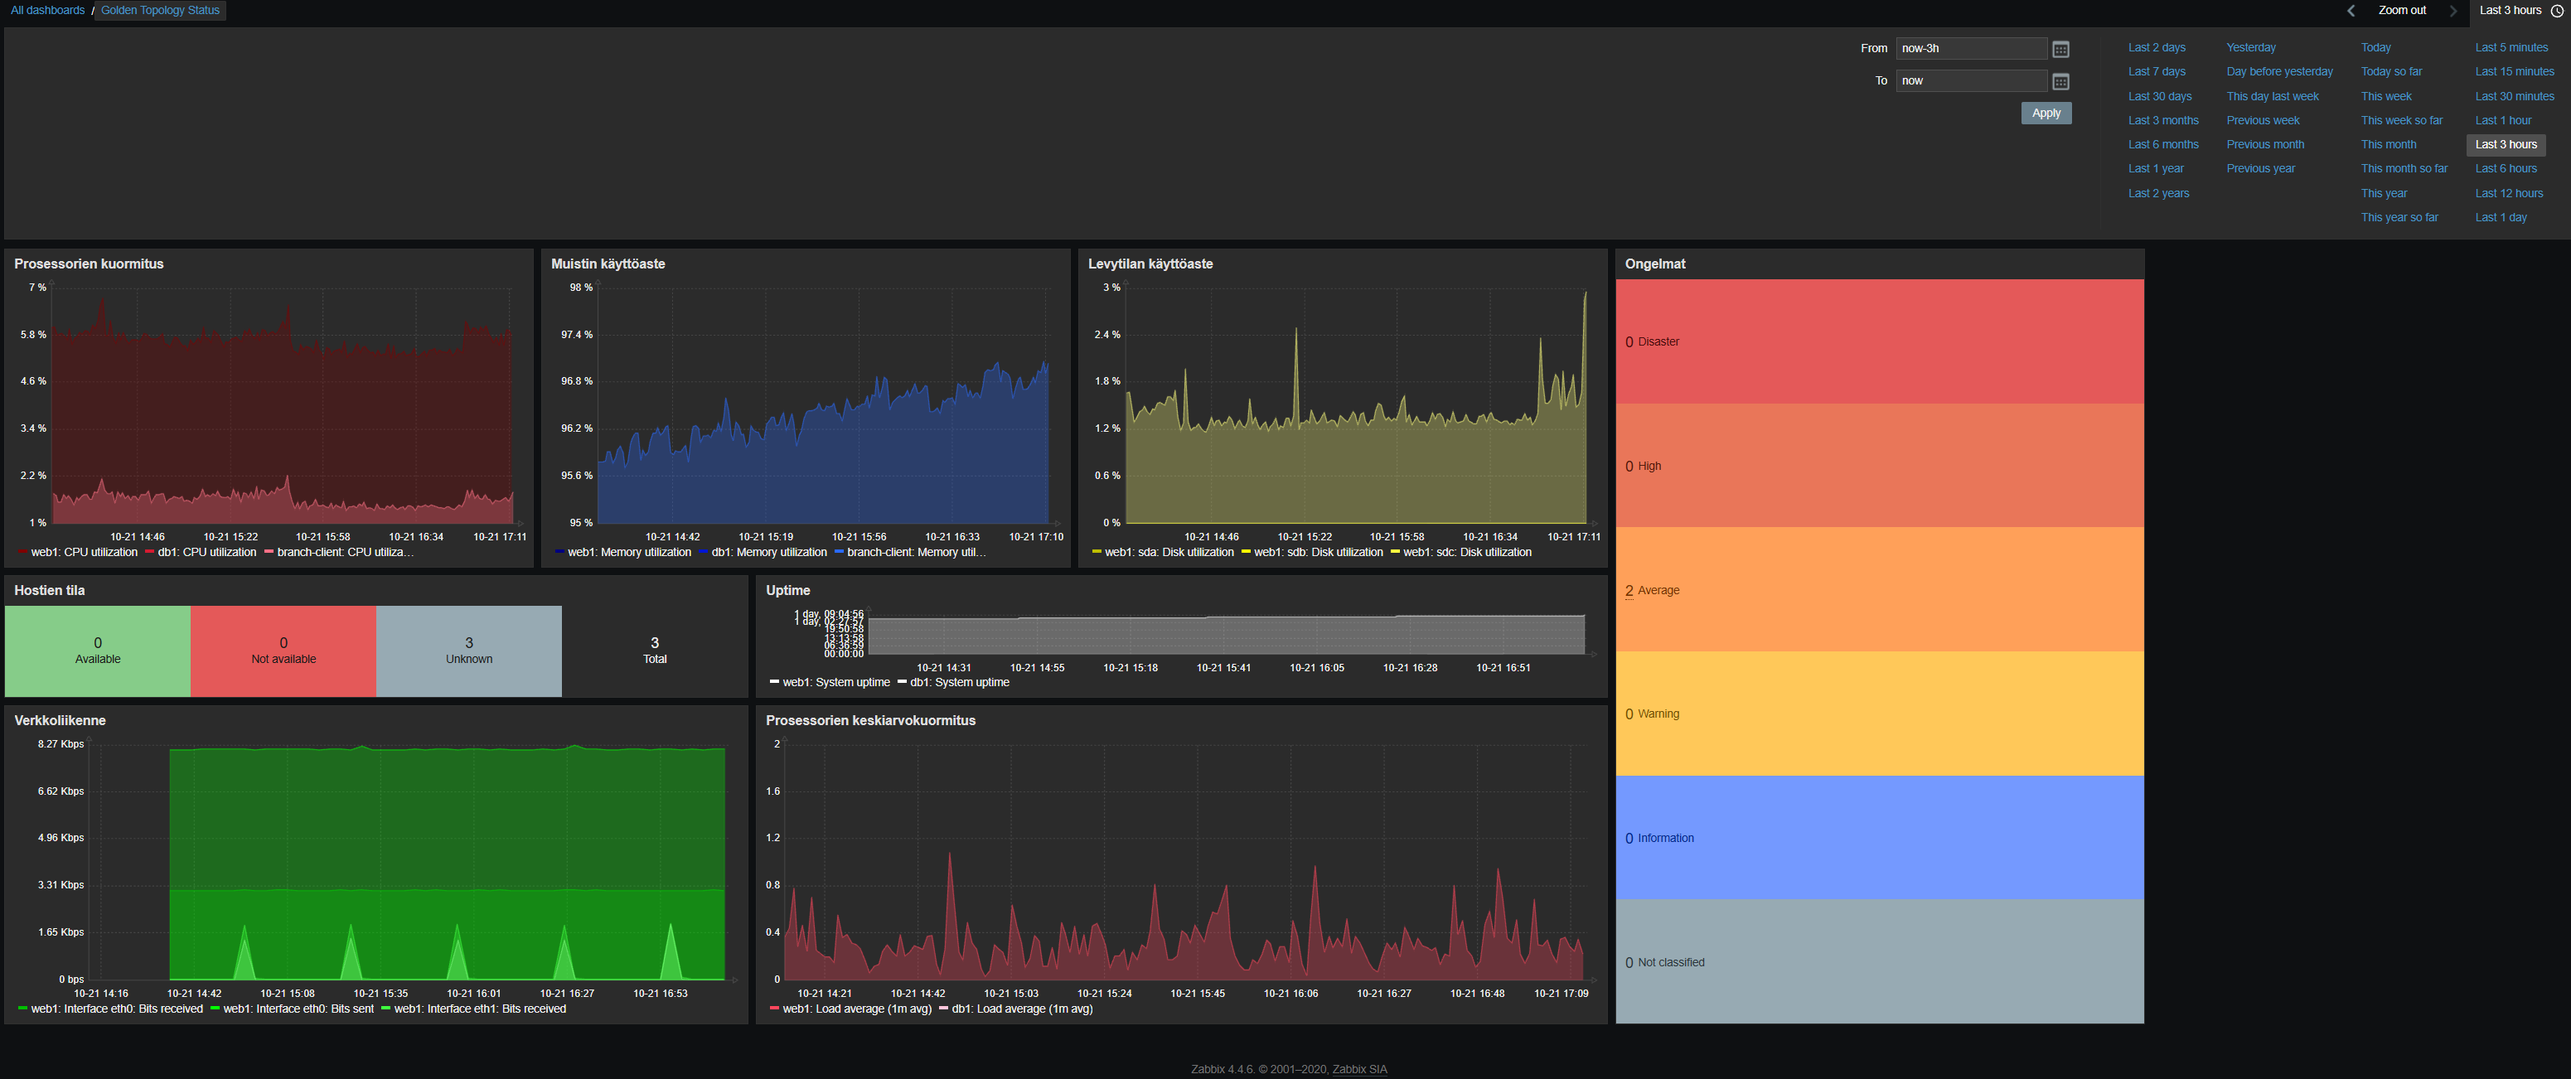
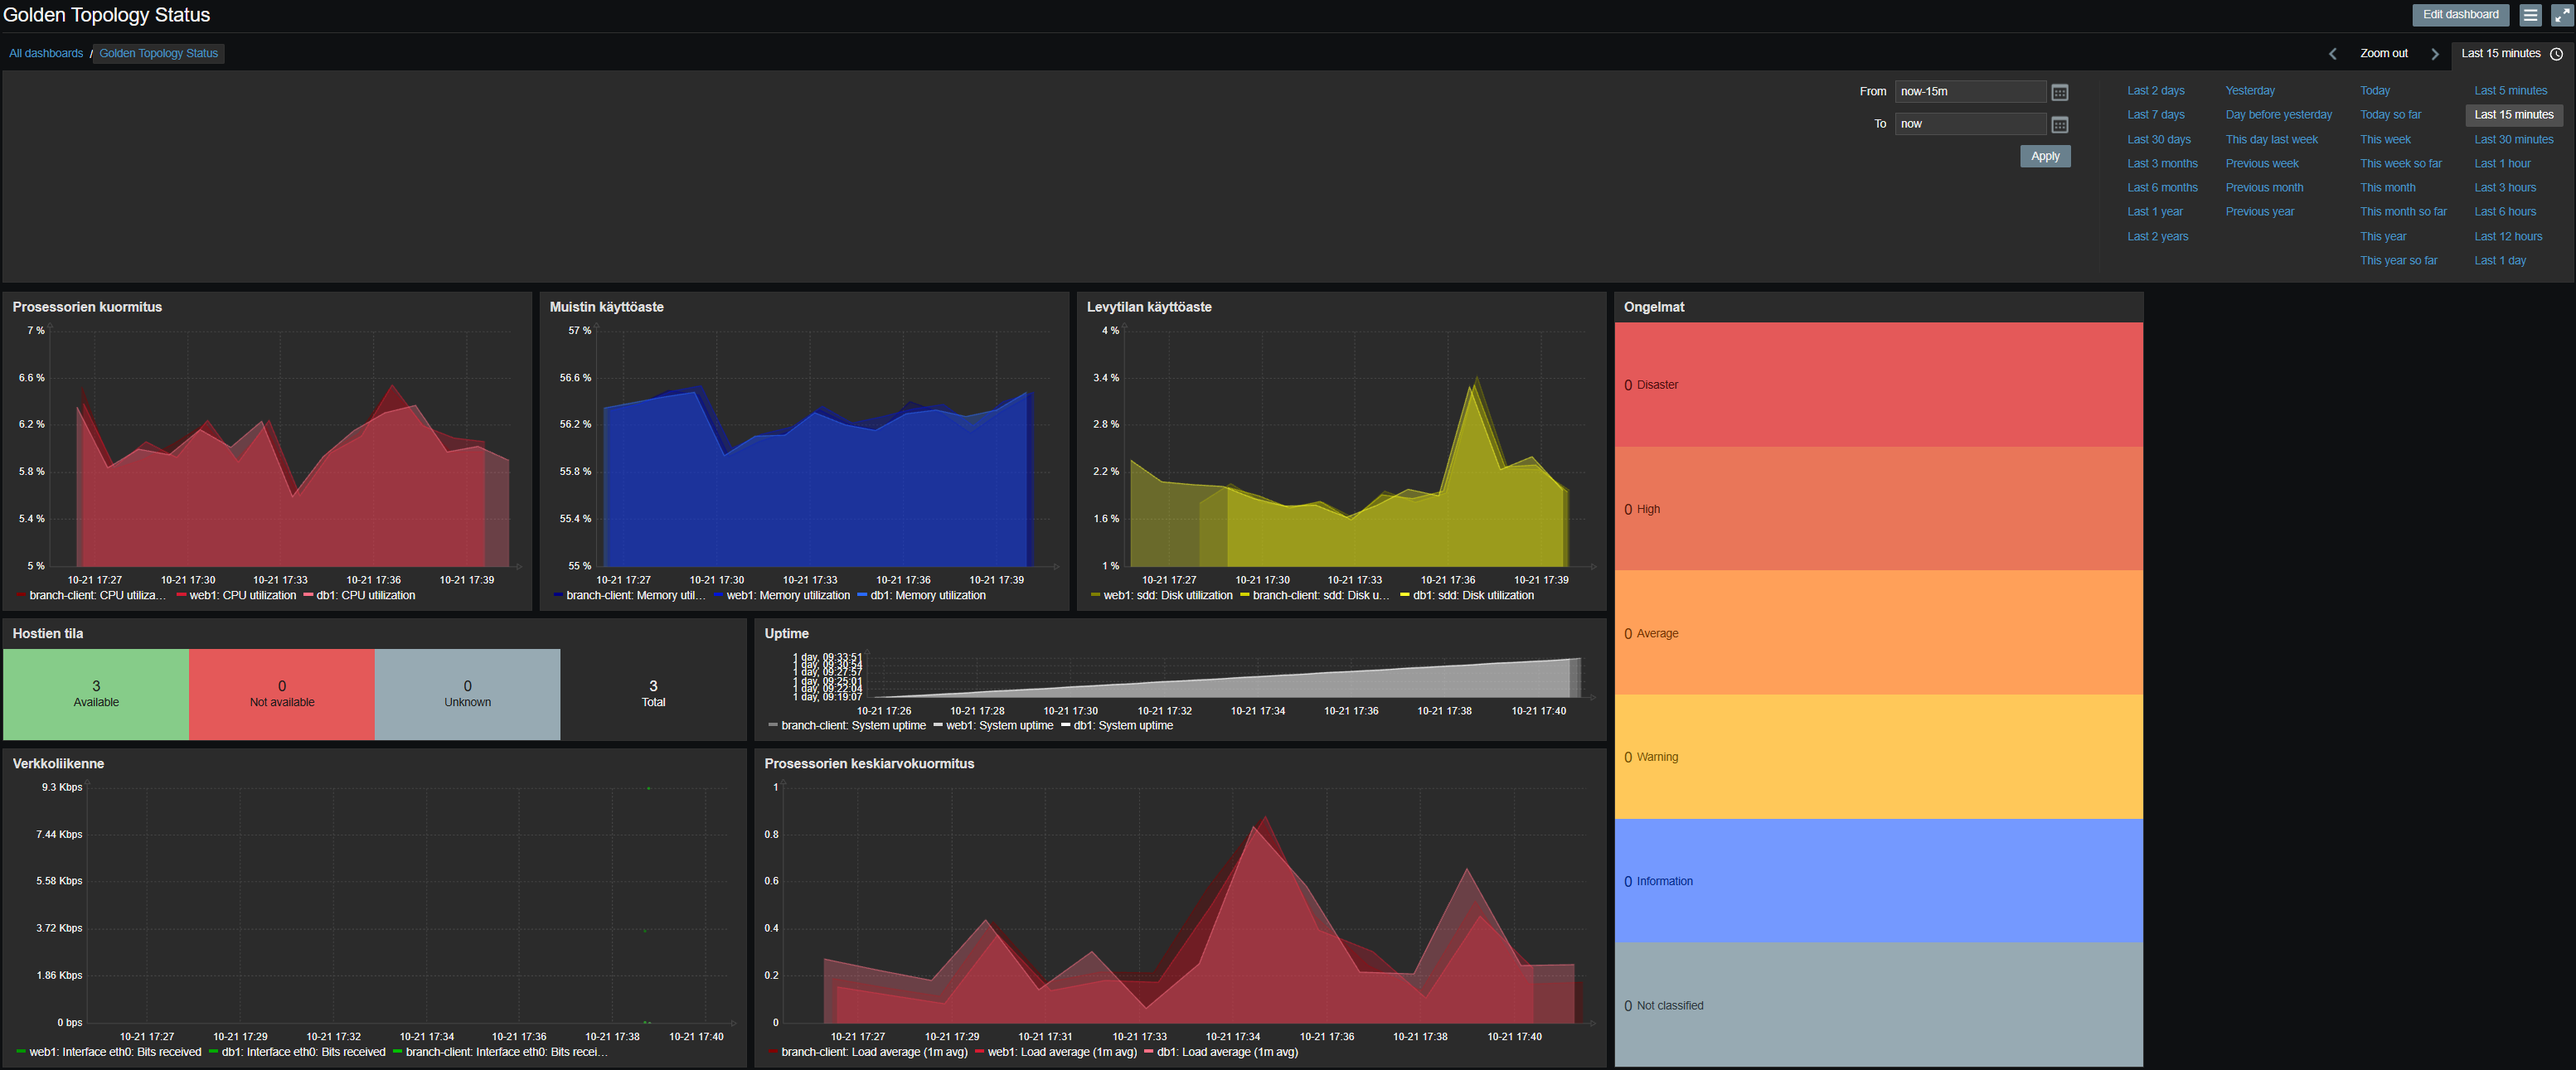
Viikon 6 raportti valmis

diff --git a/reports/week06.md b/reports/week06.md
@@ -1,6 +1,6 @@
 # 1. Johdanto
 
-Zabbix on avoimen lähdekoodin valvontajärjestelmä, jolla seurataan palvelimien, verkkolaitteiden ja sovellusten toimintaa.
+Zabbix on avoimen lähdekoodin valvontajärjestelmä, jolla seurataan palvelinten, verkkolaitteiden ja sovellusten toimintaa.
 
 Sitä voidaan käyttää esim.:
 - Suorituskyvyn seurantaan: CPU, muisti, levytila ja verkkoliikenne.
@@ -8,7 +8,7 @@ Sitä voidaan käyttää esim.:
 - Hälytyksiin: ilmoittaa, jos järjestelmässä havaitaan ongelmia tai raja-arvot ylittyvät.
 - Ongelmien ennaltaehkäisyyn: auttaa havaitsemaan poikkeamat ennen kuin ne aiheuttavat suurempia häiriöitä.
 
-Zabbix muistuttaa kolmannella viikolla opeteltua Prometheusta, sillä molempia käytetään infrastruktuurin valvontaan ja ongelmien havaitsemiseen.
+Zabbix muistuttaa kolmannella viikolla opeteltua Prometheusta, koska molempia käytetään infrastruktuurin valvontaan ja ongelmien havaitsemiseen.
 
 - Hosts: Hallitaan valvottavia laitteita ja palvelimia, esim. web1- ja db1-palvelimia. Hostien asetuksissa määritellään mm. IP-osoitteet ja valvontaan liittyvät tiedot.
 - Templates: Valmiita määrityspohjia, jotka sisältävät mittareita, valvontasääntöjä ja hälytyksiä. Niiden avulla samat valvonta-asetukset voidaan ottaa helposti käyttöön useilla hosteilla.
@@ -24,35 +24,58 @@ Zabbix muistuttaa kolmannella viikolla opeteltua Prometheusta, sillä molempia k
 Kirjauduin ensin web1-palvelimelle ja asensin Zabbix-agent2 -ohjelmiston. Versiona toimi *zabbix-release_latest_7.4+ubuntu24.04_all*. Tämän jälkeen muokkasin agentin configuraatiotiedostoon oikeat IP-osoitteet.
 Seuraavaksi toistin prosessin myös db1-palvelimelle sekä branch-clientille.
 
-Tein Zabbixiin Host Groupin nimeltä Containerlab hostit ja lisäsin sinne web1- ja db1-palvelimet sekä branch-clientin.
+Tein Zabbixiin Host Groupin nimeltä Containerlab hostit ja lisäsin sinne web1- ja db1-palvelimet sekä branch-clientin. Yritin ensin käyttää templatena "Template OS Windows by Zabbix agent active" -vaihtoehtoa. Tällä templatella sain dataa näkyviin, mutta vain osittain. Lisäksi hostien tilaksi jäi "unknown". Kun vaihdoin templateksi "Template OS Windows by Zabbix agent" -vaihtoehdon, alkoi data näkymään oikein ja hostit näkyivät pian available-tilassa.
 
-![Kuvakaappaus](https://github.com/VSelkala/verkonhallinta/blob/main/reports/images/wireshark_1.png)
+![Kuvakaappaus](https://github.com/VSelkala/verkonhallinta/blob/main/reports/images/zabbix_hostgroup.png)
 
 ---
 
 # 3. Dashboard
 
-Kuvakaappaus dashboardista.
+Kuvakaappaus rakentamastani dashboardista.
 
-![Kuvakaappaus](https://github.com/VSelkala/verkonhallinta/blob/main/reports/images/wireshark_1.png)
+![Kuvakaappaus](https://github.com/VSelkala/verkonhallinta/blob/main/reports/images/zabbix_dashboard.png)
+
+Mielestäni tästä dashboardista seurattavien kohteiden tila avautuu hyvin yhdellä näkymällä ilman, että tietoa tulee liikaa.
 
 ---
 
 # 4. Mittarit
 
-Valitut mittarit ja niiden merkitys.
+Valitsin mittareiksi Prosessorien kuormitus, Muistin käyttöaste, Levytilan käyttöaste, Hostien tila, Uptime, Verkkoliikenne, Prosessorien keskiarvokuormitus sekä Ongelmat.
+
+| **Mittari** | **Arvo** | **Merkitys** |
+|---|---|---|
+| Prosessorien kuormitus | 0-100 % | Nähdään laitteen prosessorien kuormitustilanne ja mahdolliset pullonkaulat |
+| Muistin käyttöaste | 0-100 % | Nähdään laitteen muistin kuormitustilanne ja mahdolliset pullonkaulat |
+| Levytilan käyttöaste | 0-100 % | Tiedetään milloin levytilaa tarvitsee lisätä tai vapauttaa |
+| Hostien tila | Available / Not available / Unknown | Nopea näkymä siihen, onko valvottavat hostit toiminnassa |
+| Uptime | DD:HH:mm:ss | Nähdään kauanko palvelu on ollut yhtäjaksoisesti toiminnassa |
+| Verkkoliikenne | Kbps | Nähdään paljonko dataa kyseinen laite siirtää verkossa |
+| Prosessorien keskiarvokuormitus (1 min) | 0-X (X = prosessorien lukumäärä) | Nähdään montako prosessia on ollut käynnissä tai odottamassa prosessoria viimeisen minuutin aikana |
+| Ongelmat | Disaster / High / Average / Warning / Information / Not classified | Näyttää ympäristössä oleva ongelmat prioriteetin mukaan |
 
 ---
 
 # 5. Triggerit
 
-Määritetyt triggerit ja niiden toiminta.
+Templatessa oli valmiina valtava määrä triggereitä. Loin kuitenkin kaksi uutta triggeriä ehdotuksen mukaan:
+- CPU > 80 %
+- Free disk space < 20 %
+
+![Kuvakaappaus](https://github.com/VSelkala/verkonhallinta/blob/main/reports/images/zabbix_triggers.png)
 
 ---
 
 # 6. Hälytys- ja häiriötestit
 
-Suoritetut testit ja tulokset.
+Suoritin CPU-kuormitustestin ensin branch-clientilla komennolla *yes > /dev/null*. Zabbixissa käyrä nousi hitaasti, mutta vain n. 25 % kohdille. Tämän jälkeen avasin kaksi uutta Powershelliä myös web1- ja db1-palvelimia varten. Kirjauduin näihin ja suoritin saman komennon molempiin. Käyrä nousi jo n. 58% kohdalle. Triggeriä ei syntynyt. Tarkastin Windowsin Task Managerista koneeni CPU-kuormaa, joka oli sama. Totesin, että virtuaaliympäristön vuoksi Zabbixin CPU-load valvookin koko ympäristöä, eikä vain yhtä virtuaalilaitetta, kuten kuuluisi.
+
+Seuraava häiriötesti koski levytilan täyttymistä. Toteutin sen jälleen branch-clientilla, komennolla *dd if=/dev/zero of=testfile.img bs=1M count=1000*. Tästäkään testistä triggeriä ei syntynyt ja levytilan käyttöaste ei muuttunut graafeissa käytännössä lainkaan. Ainoa huomattava muutos oli testin aikainen lievä prosessorin kuorman nousu.
+
+![Kuvakaappaus](https://github.com/VSelkala/verkonhallinta/blob/main/reports/images/zabbix_testit.png)
+
+Tästä jäi ikävä maku, koska nähtävästi Zabbix (tai agentit) olisi pitänyt konfiguroida eri tavalla. Pyrin kuitenkin tekemään käyttöönoton aivan kuten luentovideolla ja kirjallisessa ohjeistuksessa opastettiin.
 
 ---
 
@@ -65,10 +88,34 @@ Suoritetut testit ja tulokset.
 | Hälytykset | SNMP-trapit mahdollistavat ilmoitukset, mutta kattavampi hälytysjärjestelmä vaatii erillisen työkalun. | Hälytykset voidaan toteuttaa Alertmanagerilla. | Sisäänrakennetut ongelmien tunnistus- ja hälytystoiminnot. |
 | Käyttöönotto | Usein helppo, jos laite tukee SNMP:tä. | Vaatii Prometheuksen ja yleensä sopivat exporterit sekä määritykset. | Vaatii palvelimen ja tietokannan sekä valvontakohteiden ja sääntöjen määritykset. |
 | Skaalautuvuus | Soveltuu kaiken kokoisiin verkkoympäristöihin. Ominaisuudet riippuvat laitteista ja hallintatyökaluista. | Soveltuu pienistä ympäristöistä suuriin pilvi- ja konttiympäristöihin. | Soveltuu pienistä ympäristöistä suuriin yritysverkkoihin. |
-| Yrityskäyttö | Yleinen verkkolaitteiden ja infrastruktuurin valvontaprotokolla. | Sopii erityisesti pilvi-, kontti- ja sovellusympäristöjen valvontaan. | Sopii kokonaisvaltaiseen IT-infrastruktuurin, palvelimien, verkkolaitteiden ja sovellusten valvontaan. |
+| Yrityskäyttö | Yleinen verkkolaitteiden ja infrastruktuurin valvontaprotokolla. | Sopii erityisesti pilvi-, kontti- ja sovellusympäristöjen valvontaan. | Sopii kokonaisvaltaiseen IT-infrastruktuurin, palvelinten, verkkolaitteiden ja sovellusten valvontaan. |
 
 ---
 
 # 8. Yhteenveto
 
-Kurssin tärkeimmät opit.
+Kurssin tärkeimmät opit:
+- Viikko 1 – Dokumentaatio: Dokumentointi auttaa ymmärtämään ympäristön rakennetta, asetuksia ja riippuvuuksia sekä helpottaa ongelmien selvittämistä.
+- Viikko 2 – SNMP: SNMP:n avulla voidaan kerätä tietoa verkkolaitteista ja palvelimista. Opin myös, että yhteyden toimivuus, kuunteluosoitteet ja käyttöoikeudet vaikuttavat tiedonkeruuseen.
+- Viikko 3 – Valvonta / Prometheus: Prometheus kerää järjestelmien mittareita, joita voidaan visualisoida esimerkiksi Grafanalla. Mittareiden avulla havaitaan kuormitusta ja poikkeamia.
+- Viikko 4 – Ansible: Ansible automatisoi palvelinten konfigurointia ja ohjelmistojen asennusta. Yhdellä playbookilla voidaan tehdä samat muutokset useille palvelimille.
+- Viikko 5 – Tietoturva: Nmapilla voidaan kartoittaa avoimia portteja ja palveluita. Avoin portti ei automaattisesti tarkoita haavoittuvuutta, mutta sen käyttötarkoitus ja pääsynhallinta pitää selvittää.
+- Viikko 6 – Zabbix: Zabbixilla voidaan valvoa palvelimia, verkkolaitteita ja palveluita keskitetysti. Hostit, templatet, dashboardit ja triggerit auttavat hallitsemaan valvontaa ja hälytyksiä.
+
+1. Mitä hyötyä keskitetystä valvonnasta on?
+- Keskitetty valvonta kokoaa eri palvelinten ja verkkolaitteiden tilatiedot yhteen paikkaan. Se helpottaa ongelmien havaitsemista, vähentää manuaalista työtä ja nopeuttaa vianmääritystä.
+
+2. Mitkä mittarit ovat mielestäsi tärkeimpiä?
+- Tärkeimpiä ovat palvelinten saatavuus, CPU-kuormitus, muistin käyttö, levytila sekä verkkoliikenne. Lisäksi on tärkeää seurata keskeisten palveluiden toimintaa ja vasteaikoja.
+
+3. Millaisista tilanteista ylläpitäjän pitäisi saada hälytys?
+- Hälytys pitäisi saada esimerkiksi palvelimen tai palvelun kaatuessa, levytilan loppuessa, CPU-kuormituksen pysyessä pitkään korkeana tai muistin käytön kasvaessa liian suureksi. Myös verkkoyhteyden katkeamisesta ja epäilyttävästä toiminnasta pitäisi ilmoittaa.
+
+4. Missä tilanteissa käyttäisit Prometheusta?
+- Käyttäisin Prometheusta erityisesti palvelinten, sovellusten ja konttiympäristöjen suorituskykymittareiden keräämiseen ja analysointiin. Yhdessä Grafanan kanssa se sopii hyvin mittareiden visualisointiin ja trendien seuraamiseen.
+
+5. Missä tilanteissa käyttäisit Zabbixia?
+- Käyttäisin Zabbixia silloin, kun haluaisin hallita erilaisten palvelinten, verkkolaitteiden ja palveluiden valvontaa yhdestä järjestelmästä. Se soveltuu hyvin ympäristöihin, joissa tarvitaan valmiita valvontamalleja, dashboardeja ja hälytyksiä.
+
+6. Mitä valvontatoimintoja lisäisit tähän ympäristöön?
+- Lisäisin tietoturvatapahtumien keskitetyn seurannan. Lisäksi ottaisin käyttöön automaattiset ilmoitukset esimerkiksi sähköpostiin, jotta ongelmiin voitaisiin reagoida nopeasti.
